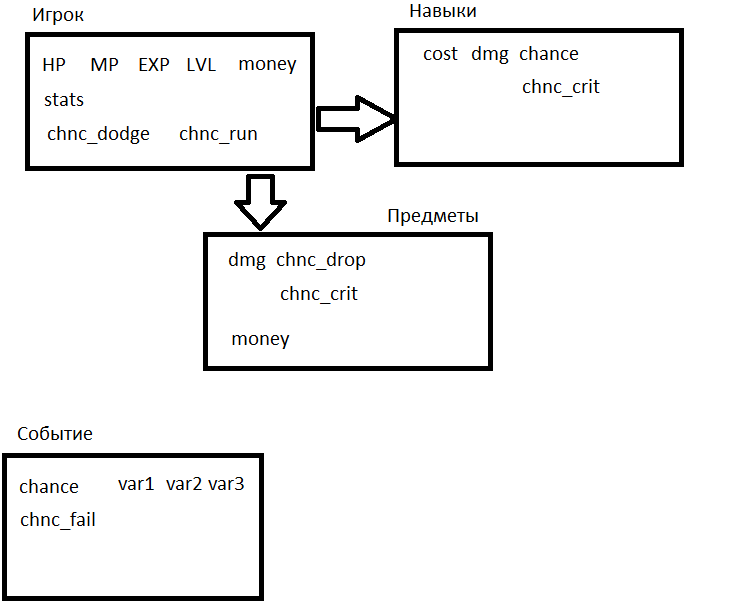
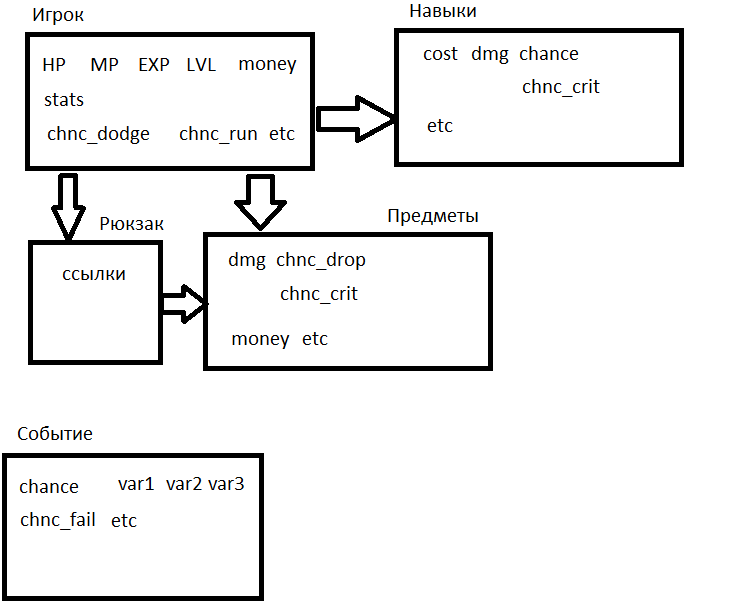
wat_backpack

diff --git a/end/warten_am_tor.py b/end/warten_am_tor.py
@@ -35,7 +35,7 @@ def con_get_one(sql, val =[]):
 #AGL - chnc_dodge, DMG, min_item, , chnc_crit
 
 def begin_quest():
-    sql1 = """create table if not exists Player
+    sql0 = """create table if not exists Player
                           (id_tg_user integer PRIMARY KEY,
                           nickname text,
                           HP INTEGER,
@@ -52,18 +52,34 @@ def begin_quest():
                           chnc_block_dmg REAL, 
                           class text,
                           review text,
+                          backpack INTEGER.
                           pr_skill text,
                           ex_skill text,
                           def_skill text,
                           armor text,
                           weapon text,
                           amulet text,
+                          FOREIGN KEY (baclpack) REFERENCES Backpack(id)
                           FOREIGN KEY (pr_skill) REFERENCES Skill(name_sk)
                           FOREIGN KEY (ex_skill) REFERENCES Skill(name_sk)
                           FOREIGN KEY (def_skill) REFERENCES Skill(name_sk)
                           FOREIGN KEY (armor) REFERENCES Item(name_it)
                           FOREIGN KEY (weapon) REFERENCES Item(name_it)
                           FOREIGN KEY (amulet) REFERENCES Item(name_it)
+                          );
+                       """
+    sql1 = """create table if not exists Backpack
+                          (id INTEGER PRIMARY KEY AUTOINCREMENT,
+                          item1 text,
+                          item2 text,
+                          item3 text,
+                          item4 text,
+                          item5 text,
+                          FOREIGN KEY (item1) REFERENCES Item(name_it)
+                          FOREIGN KEY (item2) REFERENCES Item(name_it)
+                          FOREIGN KEY (item3) REFERENCES Item(name_it)
+                          FOREIGN KEY (item4) REFERENCES Item(name_it)
+                          FOREIGN KEY (item5) REFERENCES Item(name_it)
                           );
                        """
 
@@ -129,6 +145,7 @@ def begin_quest():
     con_comm(sql3)
     con_comm(sql2)
     con_comm(sql1)
+    con_comm(sql0)
     return True
 
 def sel_all(table):
@@ -170,19 +187,18 @@ def insert_only_player(val):#22 insert_player( val =(123, 't_user', 20, 9, 0, 0,
     con_comm(sql,val)
     return True
 
-def equip_item(id_user, id_sk, sk_teg):
+def set_skill (id_user, id_sk, sk_teg):
+    sk_n = sel_atr('Skill', id_sk, 'name_sk')
     if sk_teg == 'pr':
-        sk_n = sel_atr('Skill', id_sk, 'name_sk')
-        sql = "update Player set pr_skill = 't_skill' where id_tg_user = 123"
-
-        pass
+        sk_type = 'pr_skill'
     elif sk_teg == 'ext':
-        pass
+        sk_type = 'ext_skill'
     elif sk_teg == 'def':
-        pass
+        sk_type = 'def_skill'
     else:
         return False
+    sql = 'update Player set '+ sk_type +' = '+ str(sk_n) +' where id_tg_user = '+ str(id_user)
 
 
-def set_skill():
+def equip_item():
     pass
